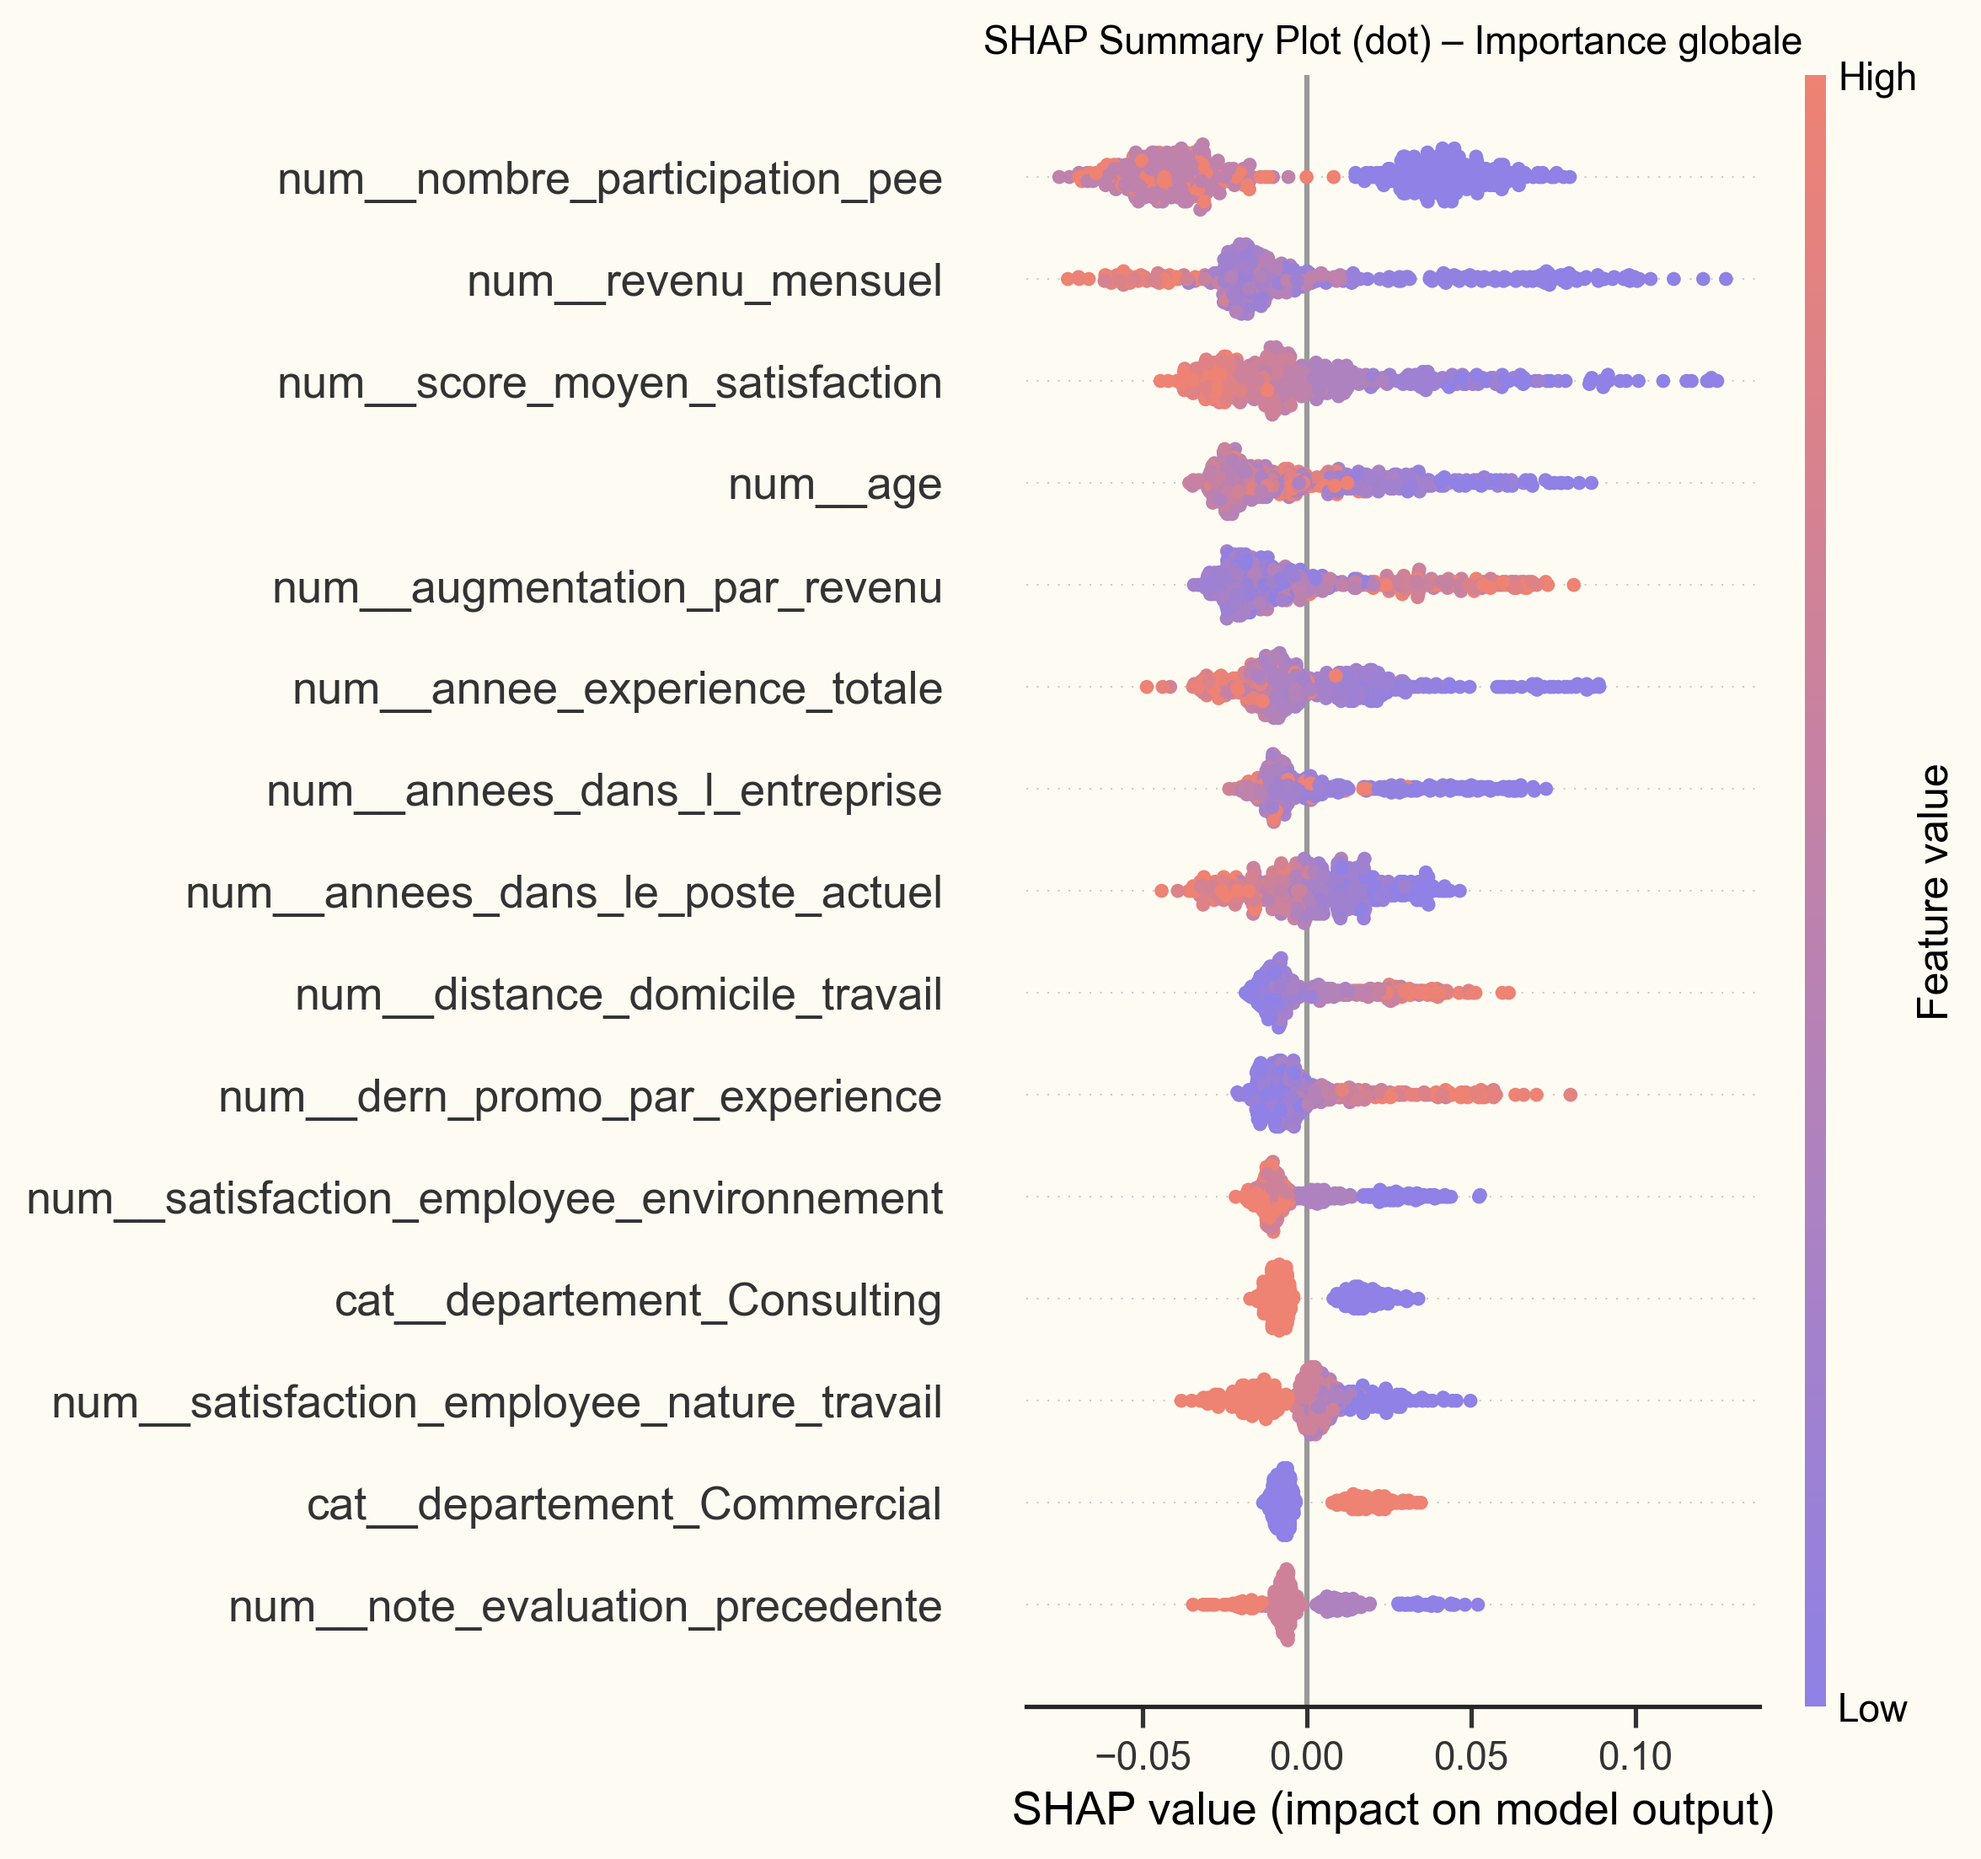
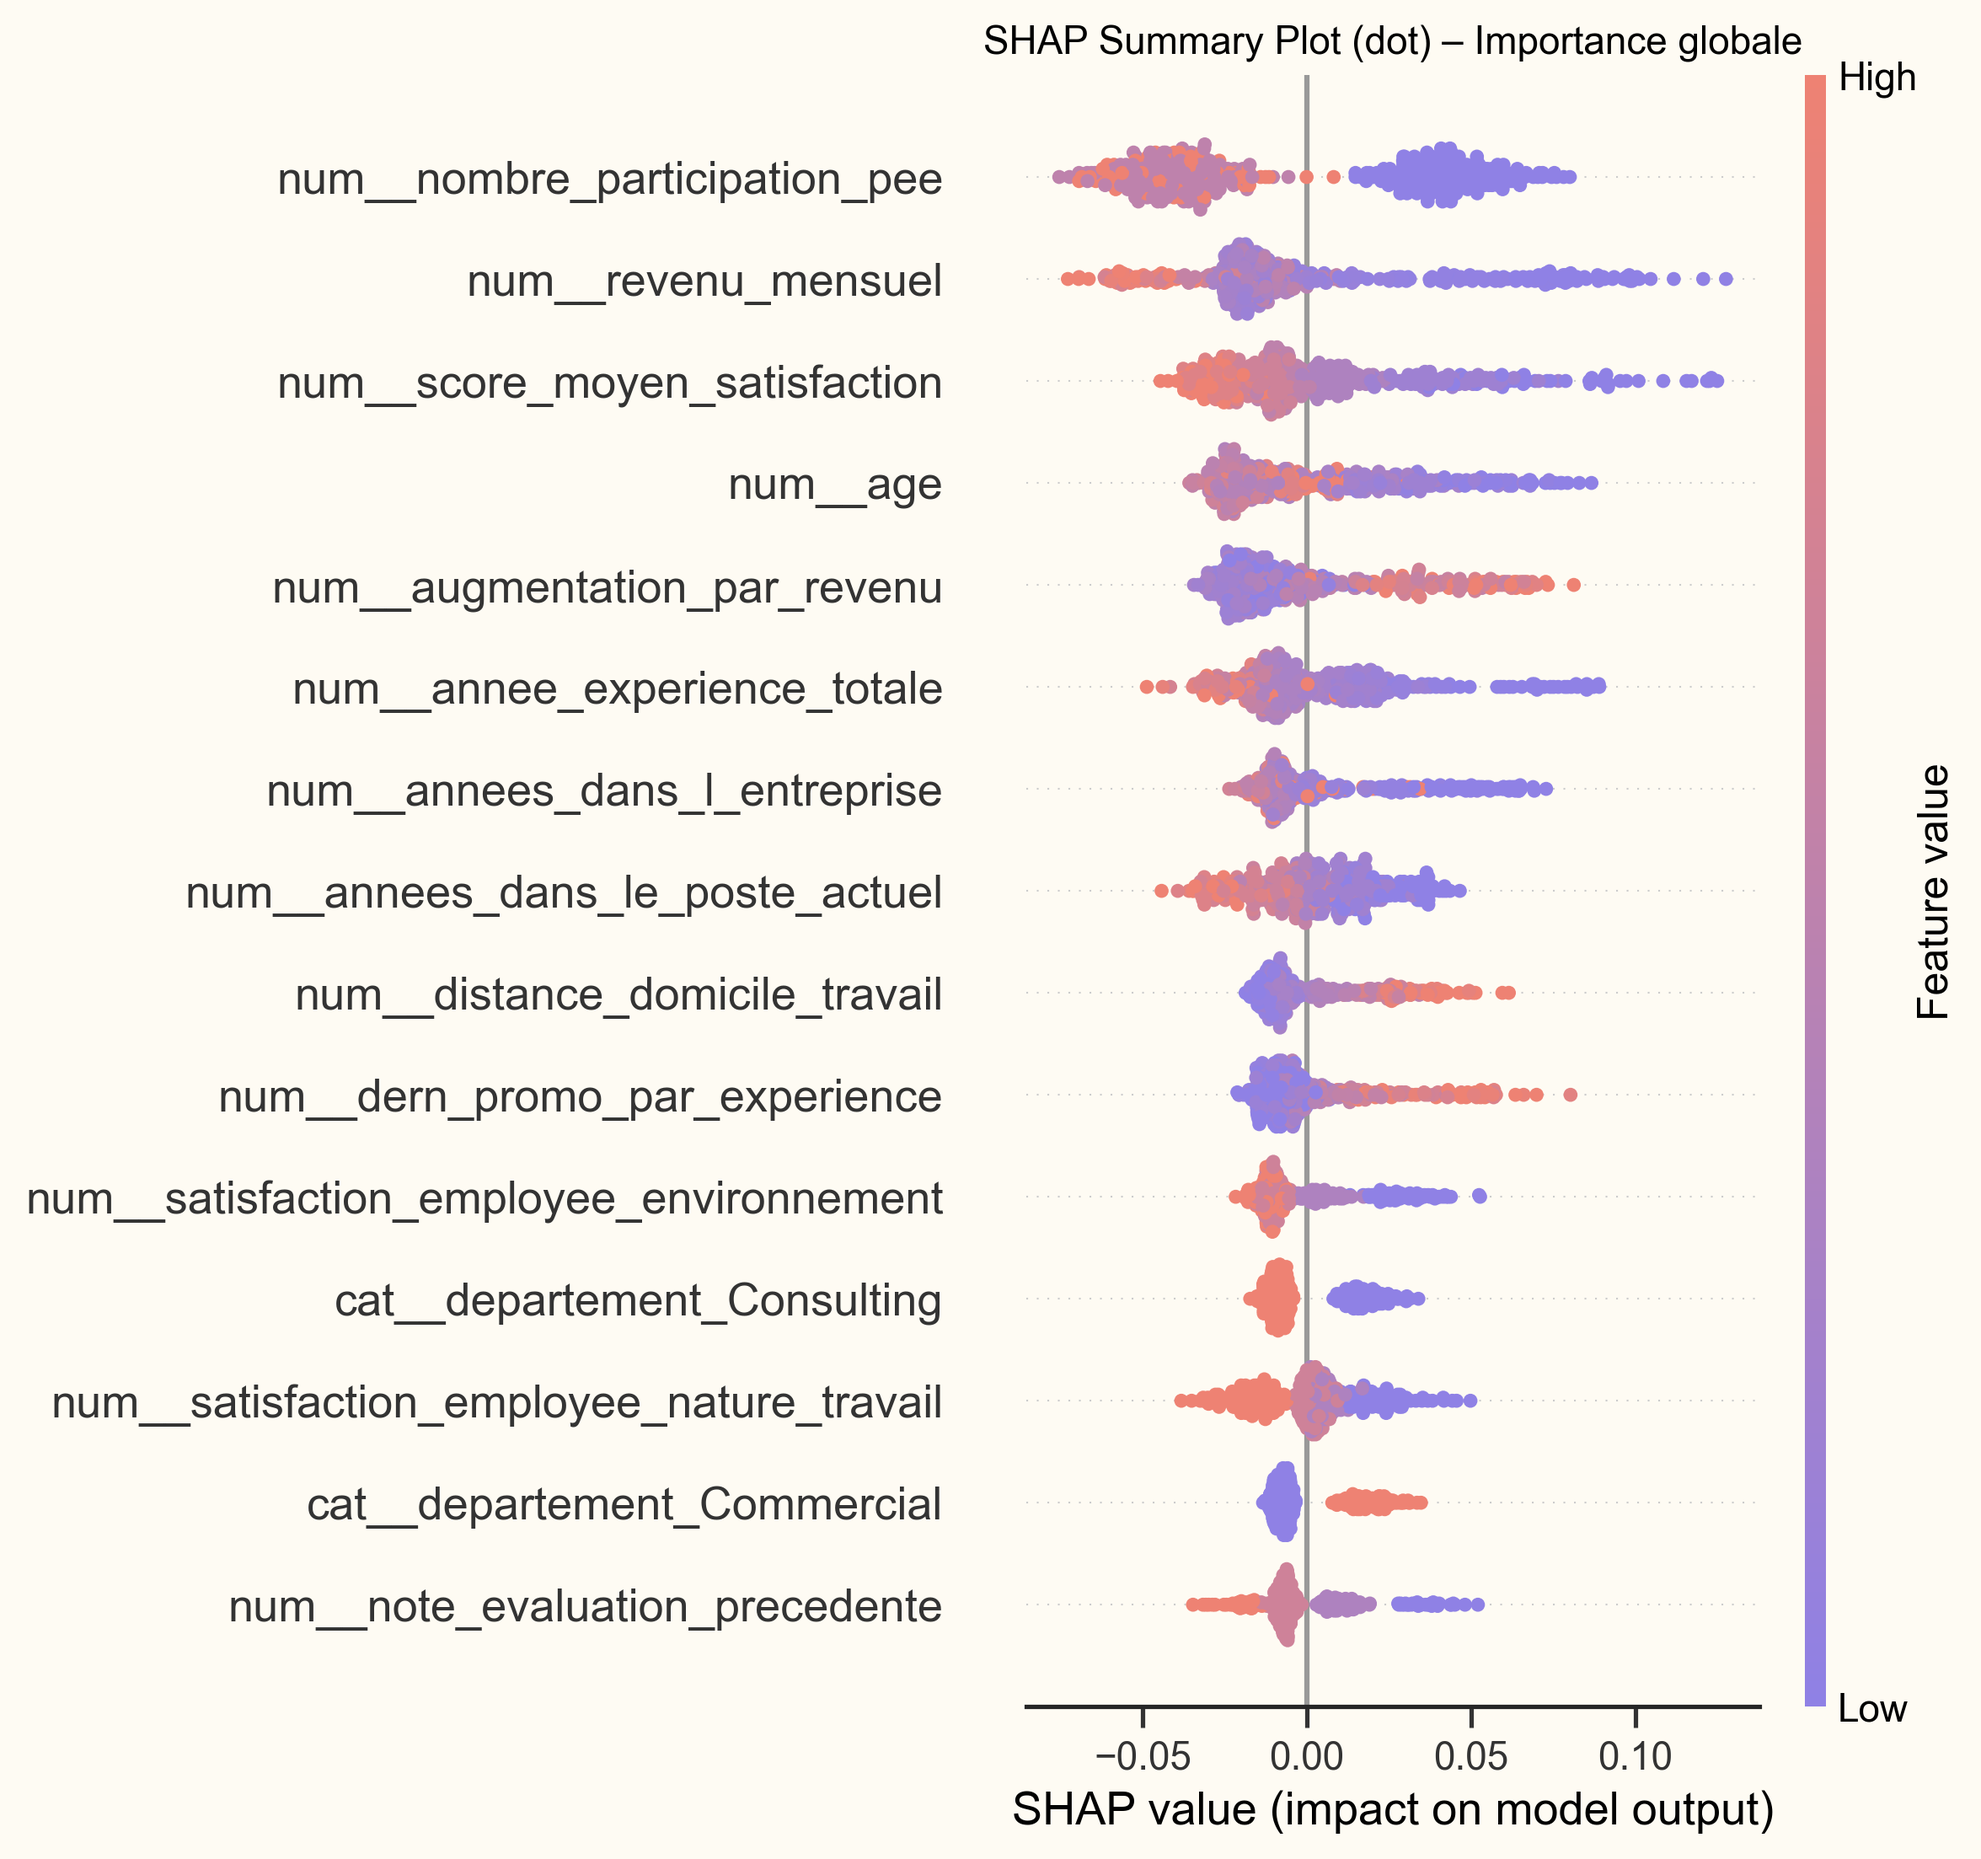
paramétrage et automatisation mkdocs

diff --git a/references/test.py b/references/test.py
@@ -1,0 +1,31 @@
+class Greeter:
+    """Classe permettant de saluer un utilisateur.
+
+    Cette classe gère la génération de messages de bienvenue personnalisés.
+    Elle illustre l'utilisation de docstrings respectant les conventions
+    PEP 8 et PEP 257, dans un format compatible avec mkdocstrings.
+    """
+
+    def __init__(self, name: str = "Inconnu"):
+        """Initialise le greeter avec un nom d'utilisateur.
+
+        Args:
+            name (str): Le nom de la personne à saluer. Par défaut "Inconnu".
+        """
+        self.name = name
+
+    def say_hello(self) -> str:
+        """Retourne un message de salutation.
+
+        Returns:
+            str: Un message de type "Bonjour, <nom> !".
+        """
+        return f"Bonjour, {self.name} !"
+
+    def say_goodbye(self) -> str:
+        """Retourne un message d'au revoir.
+
+        Returns:
+            str: Un message de type "Au revoir, <nom> !".
+        """
+        return f"Au revoir, {self.name} !"

diff --git a/README.md b/README.md
@@ -76,17 +76,6 @@ Déployez un modèle de Machine Learning
 
 --------
 
----
-title: Projet 05
-emoji: 👀
-colorFrom: indigo
-colorTo: green
-sdk: gradio
-sdk_version: 5.49.1
-app_file: app.py
-pinned: false
----
-
 Check out the configuration reference at https://huggingface.co/docs/hub/spaces-config-reference
 
 <!-- Improved compatibility of back to top link: See: https://github.com/othneildrew/Best-README-Template/pull/73 -->
@@ -98,8 +87,6 @@ Check out the configuration reference at https://huggingface.co/docs/hub/spaces-
 *** Don't forget to give the project a star!
 *** Thanks again! Now go create something AMAZING! :D
 -->
-
-
 
 <!-- PROJECT SHIELDS -->
 <!--
@@ -117,8 +104,6 @@ Check out the configuration reference at https://huggingface.co/docs/hub/spaces-
 [![project_license][license-shield]][license-url]
 [![LinkedIn][linkedin-shield]][linkedin-url]
 ![GitHub Actions Workflow Status](https://img.shields.io/github/actions/workflow/status/:user/:repo/:workflow)
-
-
 
 <!-- PROJECT LOGO -->
 <br />
@@ -142,8 +127,6 @@ Check out the configuration reference at https://huggingface.co/docs/hub/spaces-
     <a href="https://github.com/github_username/repo_name/issues/new?labels=enhancement&template=feature-request---.md">Request Feature</a>
   </p>
 </div>
-
-
 
 <!-- TABLE OF CONTENTS -->
 <details>
@@ -191,8 +174,6 @@ Here's a blank template to get started. To avoid retyping too much info, do a se
 
 <p align="right">(<a href="#readme-top">back to top</a>)</p>
 
-
-
 <!-- GETTING STARTED -->
 ## Getting Started
 
@@ -212,20 +193,19 @@ This is an example of how to list things you need to use the software and how to
 pip install -r requirements.txt
 uvicorn app.main:app --reload
 
-1. Get a free API Key at [https://example.com](https://example.com)
-2. Clone the repo
+1. Clone the repo
    ```sh
-   git clone https://github.com/github_username/repo_name.git
+   git clone https://github.com/stephmnt/OCR_Projet05.git
    ```
-3. Install NPM packages
+2. Install NPM packages
    ```sh
    npm install
    ```
-4. Enter your API in `config.js`
+3. Enter your API in `config.js`
    ```js
    const API_KEY = 'ENTER YOUR API';
    ```
-5. Change git remote url to avoid accidental pushes to base project
+4. Change git remote url to avoid accidental pushes to base project
    ```sh
    git remote set-url origin github_username/repo_name
    git remote -v # confirm the changes

diff --git a/docs/docs/index.md b/docs/docs/index.md
@@ -1,10 +1,5 @@
-# projet_05 documentation!
+# Déployez un modèle de Machine Learning
 
 ## Description
 
-Déployez un modèle de Machine Learning
-
-## Commands
-
-The Makefile contains the central entry points for common tasks related to this project.
-
+Cette documentation présente la réalisation du projet 05 du master Data scientist Machine Learning

diff --git a/docs/docs/greeter.md b/docs/docs/greeter.md
@@ -1,0 +1,3 @@
+# Exemple de classe Greeter
+
+::: references.test.Greeter
